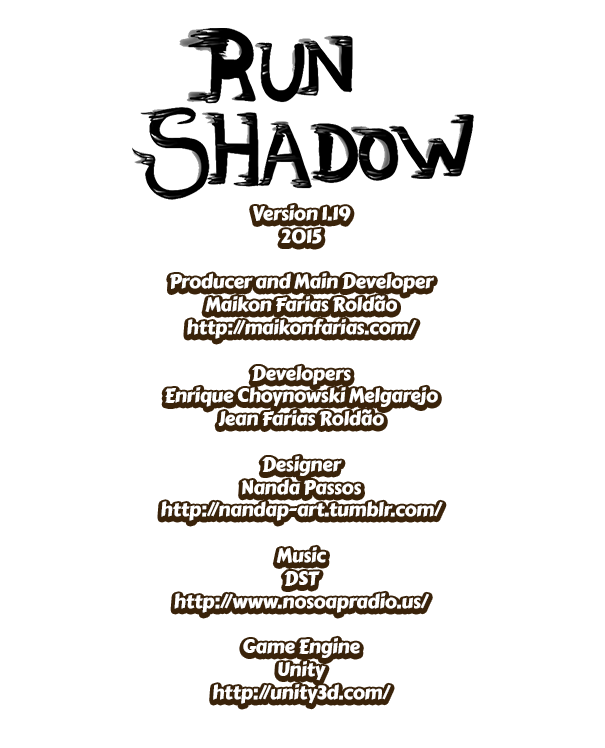
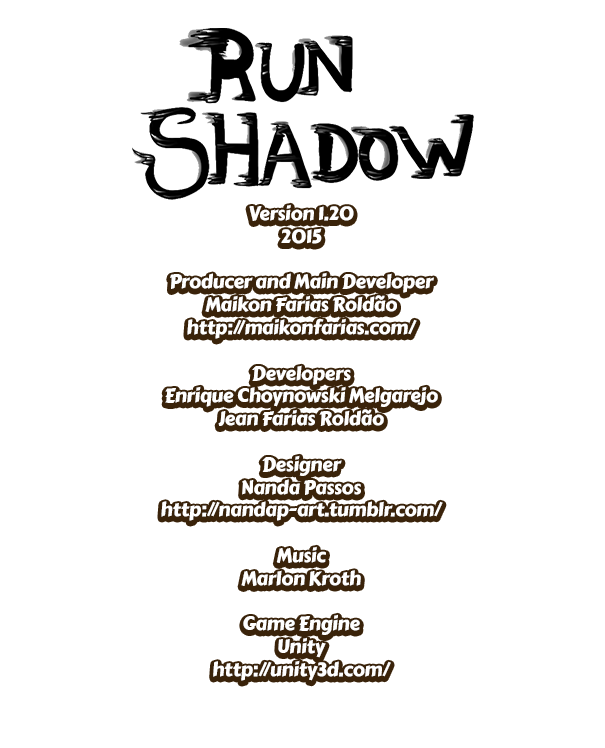
Text assets updated to 1.20 (Russian added)
Updated text assets to version 1.20 on all languages
Russian language added
Updated Music credit to Marlon Kroth

Changed region(s): [[0.2678, 0.738, 0.714, 0.9532], [0.3868, 0.2767, 0.595, 0.3075]]

diff --git a/client/Assets/Scripts/Utils.cs b/client/Assets/Scripts/Utils.cs
@@ -21,6 +21,8 @@ public static class Utils
           return "de-de";
         case SystemLanguage.Japanese:
           return "ja-jp";
+        case SystemLanguage.Russian:
+          return "ru-ru";
         default:
           return "en-us";
       }
